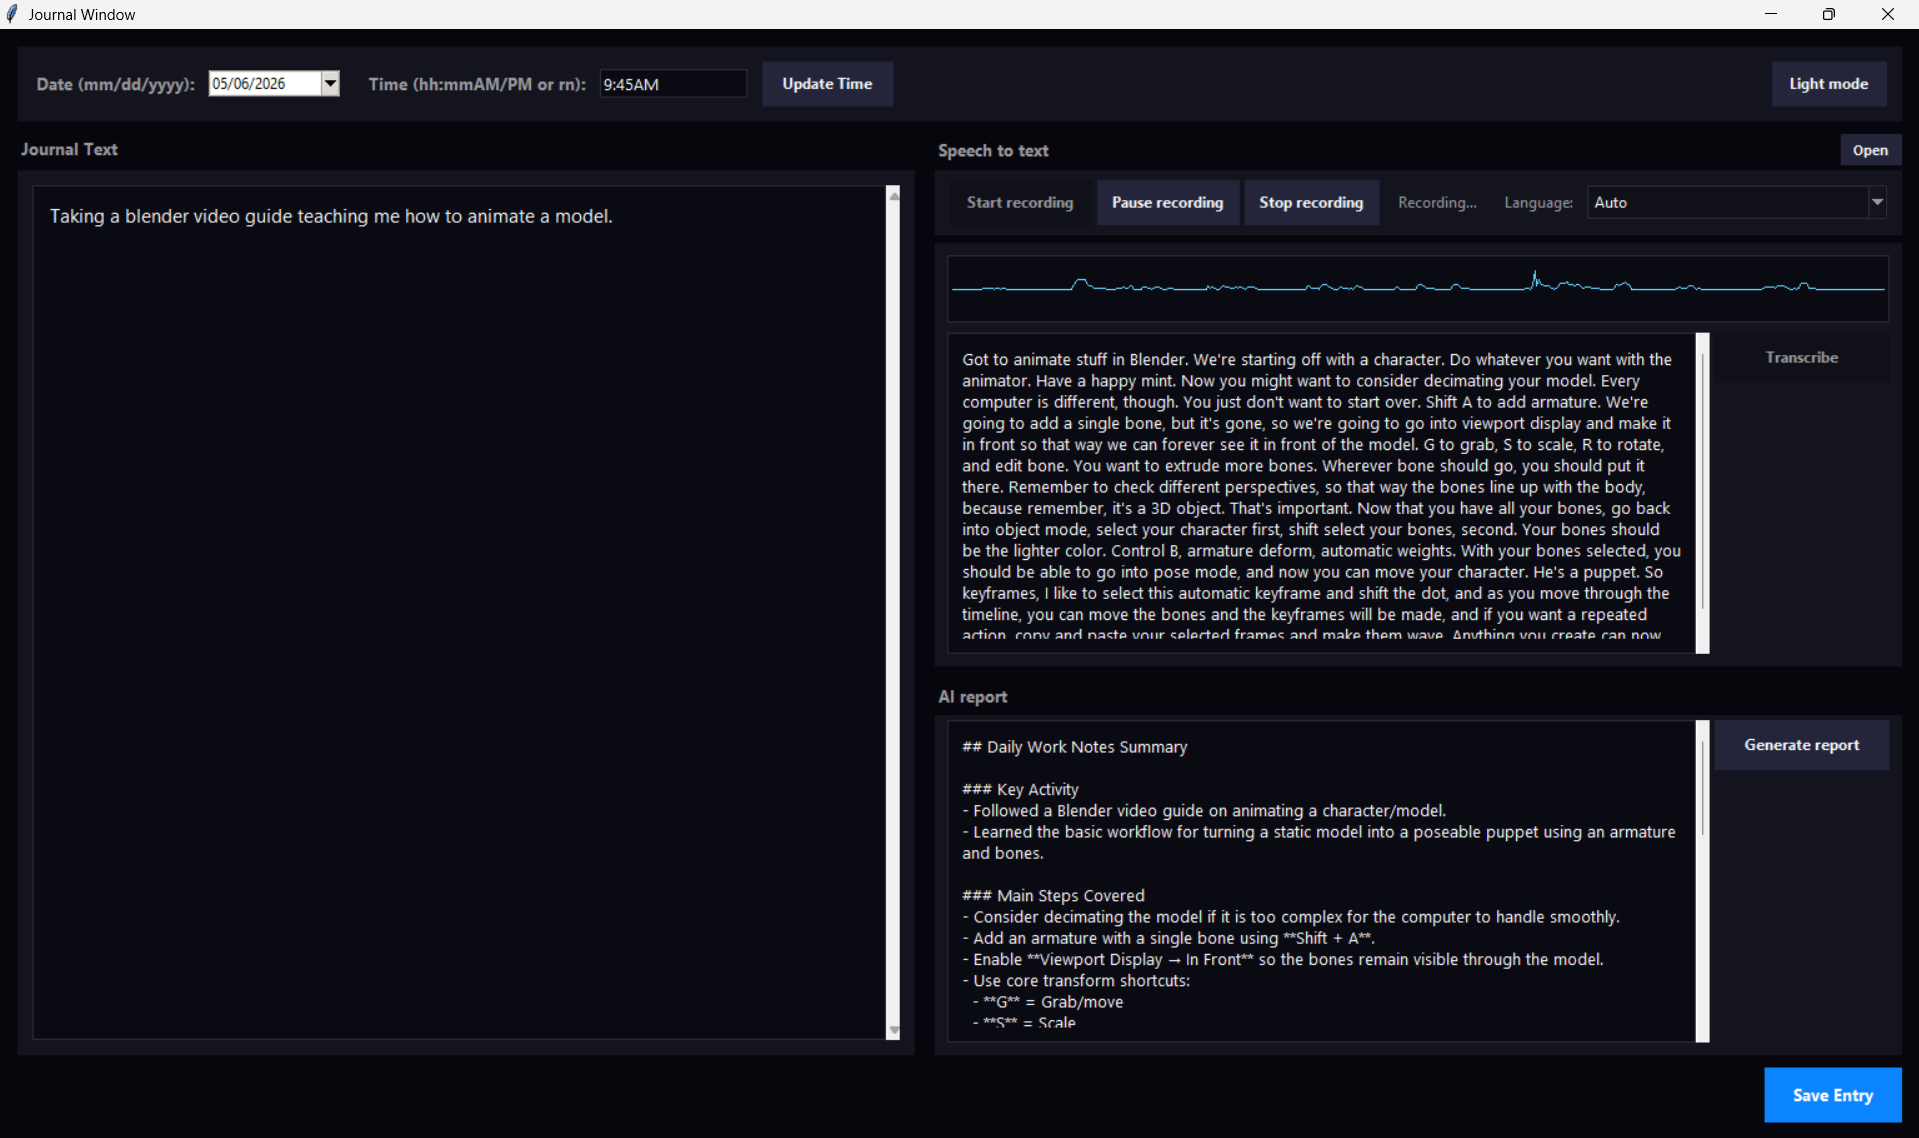
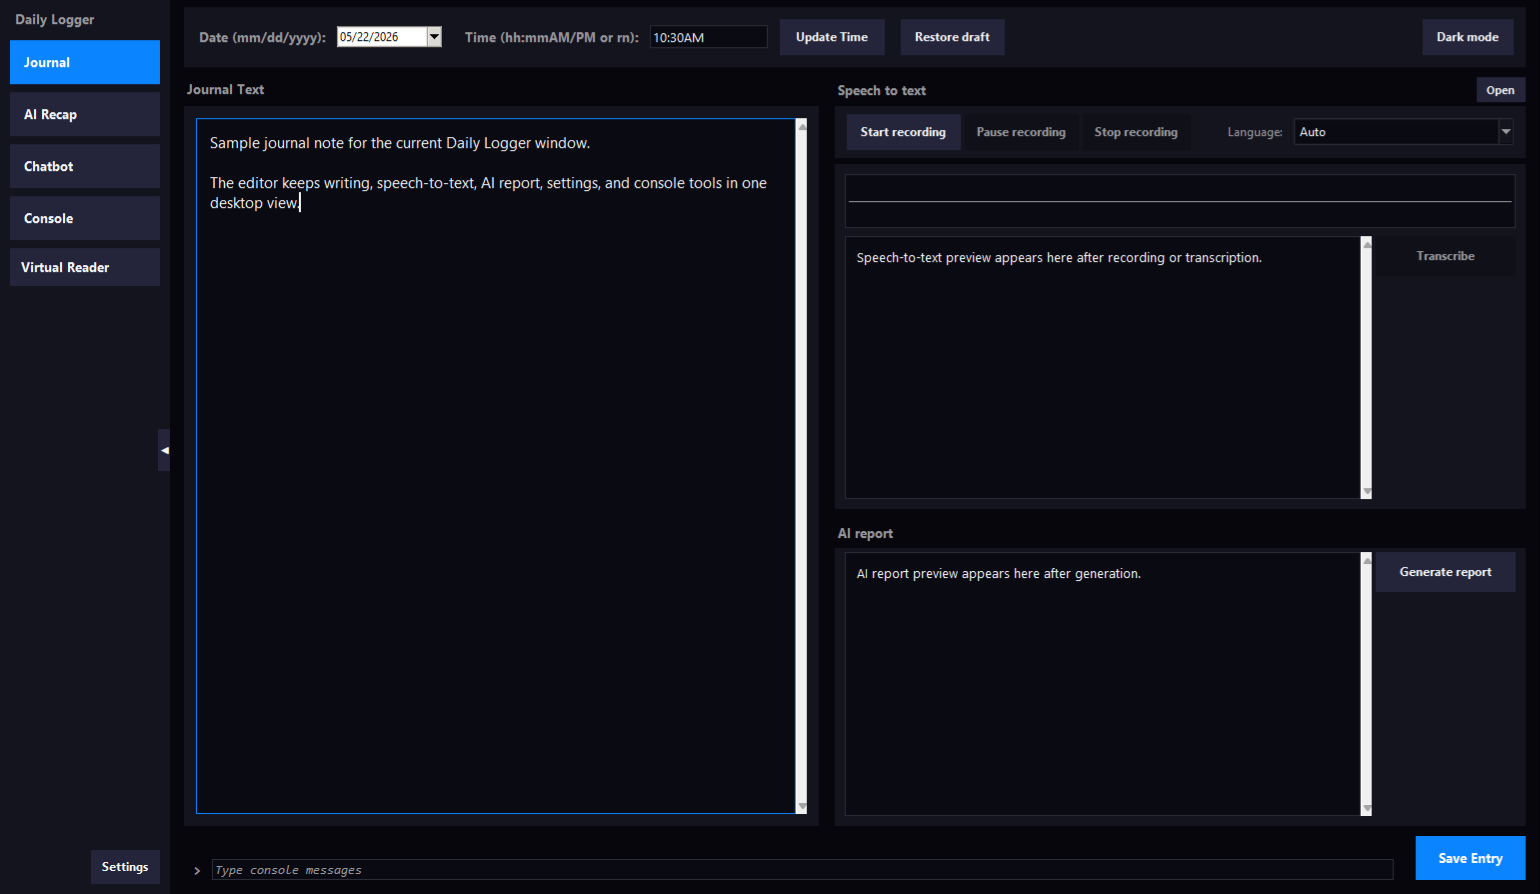
Refresh README with current UI screenshots

diff --git a/README.md b/README.md
@@ -1,140 +1,78 @@
 # Daily Logger
 
-A Windows-first personal logging app that combines a fast terminal workflow with a modern Journal Window UI, Excel-backed storage, and optional AI-powered recap/chat features.
+Daily Logger is a Windows-first personal journal for fast daily capture, rich review, and Excel-backed storage. It opens into a desktop Journal Window, saves entries locally, and can optionally use OpenAI features for recap, chat, transcription, and AI reports.
 
-## Overview
+<p align="center">
+  <a href="https://github.com/Snowey1110/daily-logger/releases/latest/download/DailyLogger.exe"><strong>Download the latest DailyLogger.exe</strong></a>
+</p>
 
-Daily Logger helps you quickly capture daily notes and review them later.
+## Highlights
 
-- Terminal command interface for fast entry and control
-- Journal Window UI with light/dark theme switching
-- Excel-based storage (`daily_logs/Journal.xlsx`)
-- Optional speech-to-text and AI report generation
-- Recap and chatbot modes powered by OpenAI API
-
----
-
-## Download EXE
-
-If you just want to run the app on Windows, use the packaged executable:
-
-- [Download DailyLogger.exe](https://github.com/Snowey1110/daily-logger/releases/download/v1.0.0/DailyLogger.exe)
-
-> If your browser warns about downloading an `.exe`, confirm that the file comes from your trusted project source.
-
----
+- Journal Window for quick writing, recording, transcription, and AI report generation.
+- Virtual Journal Reader for browsing entries as a book in the browser.
+- Editable reader pages with text, sketch, image, and layer-order controls.
+- Excel storage in `Journal.xlsx` with per-day sheets and a rebuilt `Master Journal`.
+- Background daily backup after the journal UI finishes loading.
+- Optional OpenAI recap/chat tools; normal journaling works without an API key.
 
 ## Screenshots
 
-### Terminal Interface
-<img src="images/Terminal.png" alt="Daily Logger terminal interface" width="1100" />
+| Journal Window - Dark Theme | Journal Window - Light Theme |
+| --- | --- |
+| <img src="images/Dark%20Theme.png" alt="Daily Logger current dark theme journal window" width="520" /> | <img src="images/Light%20Theme.png" alt="Daily Logger current light theme journal window" width="520" /> |
 
-### Journal Window - Dark Theme
-<img src="images/Dark%20Theme.png" alt="Daily Logger dark theme journal window" width="1100" />
+| Virtual Reader Cover | Virtual Reader Double-Page Journal |
+| --- | --- |
+| <img src="images/Virtual%20Reader%20Cover.png" alt="Actual Virtual Reader cover page" width="520" /> | <img src="images/Virtual%20Reader%20Spread.png" alt="Actual Virtual Reader double-page journal spread with text, sketch, and image layers" width="520" /> |
 
-### Journal Window - Light Theme
-<img src="images/Light%20Theme.png" alt="Daily Logger light theme journal window" width="1100" />
+## Virtual Journal Reader
 
----
+Virtual Journal Reader turns `Journal.xlsx` into a local browser-based book view. It opens from the Journal Window navigation rail with **Virtual Reader**, or from `launch_journal_reader.bat`.
 
-## Project Structure
+Reader features:
 
-- `daily_logger.py` - main application logic
-- `launch_daily_logger.bat` - Windows launcher
-- `launch_journal_reader.bat` - Virtual Journal Reader launcher
-- `virtual-journal-reader.zip` - runnable Virtual Reader add-on package
-- `dist/DailyLogger.exe` - packaged executable build
-- `daily_logs/` - generated journal Excel data
-- `settings/` - local preferences and API key files
-- `images/` - README screenshots
+- Book-style browsing with journal, speech-to-text, and AI report sections.
+- Inline page editing for journal text, date, and time.
+- Sketch layer with color, line width, eraser, undo/redo, and Shift straight-line drawing.
+- Image layer with upload/paste, drag, resize, delete, and layer ordering.
+- Theme settings, sort order, single-page mode, English/Chinese UI, and optional LAN viewing.
 
----
+How the reader is found:
 
-## Quick Start (EXE)
+- PyInstaller builds can bundle `virtual-journal-reader/dist` and `serve_reader.py` through `DailyLogger.spec`.
+- Source runs use `virtual-journal-reader/serve_reader.py` and `virtual-journal-reader/dist/`.
+- If `virtual-journal-reader.zip` is copied next to the app, Daily Logger can extract it automatically the first time Virtual Reader opens.
+- EXE builds launch the reader server through Daily Logger's internal `--serve-virtual-reader` mode, so opening the reader does not create another Daily Logger window.
 
-1. Download `DailyLogger.exe` from the link above.
+The local reader server uses port `8765` by default. If an old reader server is already running, Daily Logger checks its health and refuses stale builds instead of silently opening the wrong UI.
+
+## Quick Start
+
+### Run the EXE
+
+1. Download [DailyLogger.exe](https://github.com/Snowey1110/daily-logger/releases/latest/download/DailyLogger.exe).
 2. Run the executable.
-3. On first launch:
-   - choose your app name (or press Enter for `Daily Logger`)
-   - choose whether to auto-start with Windows
+3. On first launch, choose an app name and whether to start with Windows.
 
-No Python installation is required when using the EXE.
+No Python installation is required for the packaged EXE.
 
----
-
-## Quick Start (Python)
-
-### 1) Prerequisites
-
-- Python 3.10+ recommended
-- Windows Command Prompt or PowerShell
-
-### 2) Run the app
+### Run from Source
 
 ```bash
 python daily_logger.py
 ```
 
-Or double-click:
+Or on Windows:
 
 ```text
 launch_daily_logger.bat
 ```
 
-### 3) Dependency installation prompt
+Daily Logger checks required and optional Python packages at startup. Required packages are needed to run; optional packages enable features such as microphone recording and the calendar date picker.
 
-At startup, Daily Logger checks for required and optional packages and shows a single combined install prompt.
+### Build the Virtual Reader UI
 
-- Required packages are needed for app startup.
-- Optional packages enable full Journal Window features such as speech-to-text recording and calendar popup.
-
----
-
-## Core Commands
-
-From the main menu:
-
-- `J` - Journal
-- `R` - Recap (journal-context AI)
-- `RT` - Recap using thinking model
-- `C` - Chatbot (general AI chat)
-- `CT` - Chatbot using thinking model
-- `H` or `HELP` - command help
-- `RESTORE` - reopen latest unsaved Journal Window draft
-- `STARTUP TRUE` / `STARTUP FALSE` - manage Windows startup behavior
-- `DEFAULT WINDOWS` / `DEFAULT CONSOLE` - set preferred journal input mode
-- `SB bat` / `SB journal` - create Start Menu shortcuts
-- `RENAME` or `RENAME <name>` - rename the app title
-
----
-
-## Data and Storage
-
-### Journal File
-
-- Path: `daily_logs/Journal.xlsx`
-- Sheets:
-  - `Master Journal` (always first)
-  - date sheets (for example `2026-04-28`)
-
-### Sync Behavior
-
-- New entries are saved to that day sheet.
-- `Master Journal` is rebuilt from date sheets.
-- Deleting a date sheet removes those entries from `Master Journal` on next rebuild.
-- Date sheets are ordered newest to oldest behind `Master Journal`.
-
-### Draft Backup
-
-- Journal Window draft file: `settings/journal_window_draft.json`
-- Automatically updated while editing
-- Reopen with `RESTORE`
-
-### Virtual Journal Reader (optional)
-
-When `virtual-journal-reader/dist/` is built and `virtual-journal-reader/serve_reader.py` is present next to the app, the **Virtual Reader** item on the **left nav rail (under Console)** starts a small local server (default port **8765**), opens your default browser, and loads the same data as `Journal.xlsx` (journal text, speech-to-text, AI report). If `virtual-journal-reader.zip` is copied next to the app, Daily Logger can extract that add-on package automatically the first time Virtual Reader opens. If the addon is missing, the same control opens `Journal.xlsx` in the default browser via a `file:` URL (often downloads or opens in Excel depending on your browser).
-
-To build the web UI once (requires Node.js for development):
+Only needed when developing or rebuilding the browser reader:
 
 ```bash
 cd virtual-journal-reader
@@ -142,47 +80,100 @@ npm install
 npm run build
 ```
 
-The reader process Daily Logger **starts for you** stops when you **close the Journal window** or when the **Daily Logger Python process exits** (including `atexit`). If the server was already running on port 8765 before you opened it from Daily Logger (for example you started `serve_reader.py` manually), Daily Logger does **not** own that process and will **not** stop it when you close the app.
+## Console Commands
 
-If UI changes do not appear, end any old **Python** process still listening on port **8765** in Task Manager, run `npm run build` again, then open Virtual Reader (Daily Logger refuses an outdated server on that port and tells you to restart it).
+The Journal Window has a built-in console. Press `H` or `HELP` to see the current command list.
 
-PyInstaller builds can bundle `virtual-journal-reader/dist` and `serve_reader.py` via `DailyLogger.spec` `datas`. In EXE builds, the reader server is launched through Daily Logger's internal `--serve-virtual-reader` mode so it does not open a second logger window.
+| Command | Action |
+| --- | --- |
+| `J` | Open journal flow. |
+| `J SETTINGS`, `J SETTING`, `JOURNAL SETTINGS`, `JS` | Open the journal command menu. |
+| `R`, `RT` | Run AI recap, with `RT` using the thinking model. |
+| `R [date range]`, `RT [date range]` | Recap entries within a date range, such as `4/27 - 4/30`. |
+| `R [file]`, `RT [file]` | Recap using file text as context. |
+| `C`, `CT` | Open chatbot, with `CT` using the thinking model. |
+| `RESTORE` | Reopen the latest unsaved Journal Window draft. |
+| `OPEN DIRECTORY` | Open the app data folder. |
+| `OPEN JOURNAL` | Open `Journal.xlsx`. |
+| `OPEN SCREENSHOTS` | Open the chat screenshots folder. |
+| `STARTUP TRUE`, `STARTUP FALSE` | Enable or disable launch at Windows sign-in. |
+| `DEFAULT WINDOWS`, `DEFAULT CONSOLE` | Choose whether `J` opens the window directly or shows journal choices. |
+| `BACKUP START` | Create a backup zip now. |
+| `BACKUP TRUE`, `BACKUP FALSE`, `BACKUP LIMITED` | Enable, disable, or limit automatic backups. |
+| `TOKEN ADD [token]`, `TOKEN RESET`, `TOKEN COPY` | Manage the stored OpenAI API key. |
+| `LAN cn`, `LAN en`, `LANGUAGE Chinese`, `LANGUAGE English` | Switch UI language. |
+| `SB bat`, `SB journal`, `SB reader` | Create Start Menu search shortcuts. |
+| `WIFI WARN [name]` | Warn when connected to the named Wi-Fi network. |
+| `RENAME` | Change the app name shown in the UI. |
+| `TS` | Take a screenshot for chat workflows. |
+| `UNINSTALL`, `CONFIRM UNINSTALL` | Request and confirm local app-data cleanup. |
 
----
+## Data and Storage
+
+Daily Logger stores user data outside the repo so EXE and source runs share the same files:
+
+```text
+%APPDATA%\DailyLogger\
+```
+
+Important files and folders:
+
+- `daily_logs/Journal.xlsx` - main Excel journal file.
+- `daily_logs/Recording/` - saved recording files.
+- `daily_logs/backup/` - backup zip files.
+- `settings/daily_logger_prefs.json` - local preferences.
+- `settings/journal_window_draft.json` - autosaved unsaved draft.
+- `settings/journal_reader_sketches.json` - reader sketches and page overlays.
+- `settings/daily_logger_api_key.txt` - optional saved OpenAI API key.
+
+Journal workbook behavior:
+
+- Entries save to date sheets such as `2026-05-22`.
+- `Master Journal` is rebuilt from date sheets.
+- Date sheets are ordered newest to oldest behind `Master Journal`.
+- Old repo-local `daily_logs/` and `settings/` data can be migrated into `%APPDATA%\DailyLogger`.
+
+Backup behavior:
+
+- Automatic backup runs once per new day when enabled.
+- Startup is kept responsive: the journal window opens first, then backup runs in the background.
+- Limited backup mode keeps a small rotating set of backup zip files.
 
 ## OpenAI Features
 
-OpenAI features include Recap/Chatbot modes, AI report generation, and transcription support.
+OpenAI is optional. Without a key, local journaling, Excel storage, the reader, settings, backups, and shortcuts still work.
 
-You can add your token at any time from the app command line:
+OpenAI-powered features include:
 
-- `TOKEN ADD [OPENAI API TOKEN]`
+- AI recap over journal entries.
+- General chatbot mode.
+- AI report generation from journal text and speech-to-text.
+- Speech transcription when recording dependencies are installed.
 
-On first AI use, the app can also prompt for an API key and stores it locally in:
+Set a key with:
 
-- `settings/daily_logger_api_key.txt`
+```text
+TOKEN ADD [OPENAI API TOKEN]
+```
 
-Optional environment override:
+You can also use the `OPENAI_API_KEY` environment variable.
 
-- `OPENAI_API_KEY`
+## Project Layout
 
-No token is required to use non-AI features (for example journaling, Excel logging, theme switching, startup controls, and other local app functions).
-
----
-
-## Startup Behavior
-
-You can enable launch-at-login from inside the app:
-
-- `STARTUP TRUE` to enable
-- `STARTUP FALSE` to disable
-
-This manages a shortcut in the Windows Startup folder.
-
----
+```text
+daily_logger.py                 Main desktop app
+journal_i18n.py                 Journal Window translations
+launch_daily_logger.bat         Windows app launcher
+launch_journal_reader.bat       Virtual Reader launcher
+DailyLogger.spec                PyInstaller build spec
+dist/DailyLogger.exe            Packaged executable build
+virtual-journal-reader/         React/Vite reader UI and server
+virtual-journal-reader.zip      Runnable reader add-on package
+images/                         README screenshots and feature mockups
+```
 
 ## Notes
 
-- This project is Windows-focused.
-- Settings and generated data are local and not intended for source control.
-- The journal flow supports fast terminal input and a richer window editor workflow.
+- This project is designed primarily for Windows.
+- Settings, generated journals, backups, recordings, and API keys are local user data and should not be committed.
+- The reader is served locally by default; LAN viewing can be toggled from the reader settings when needed.
